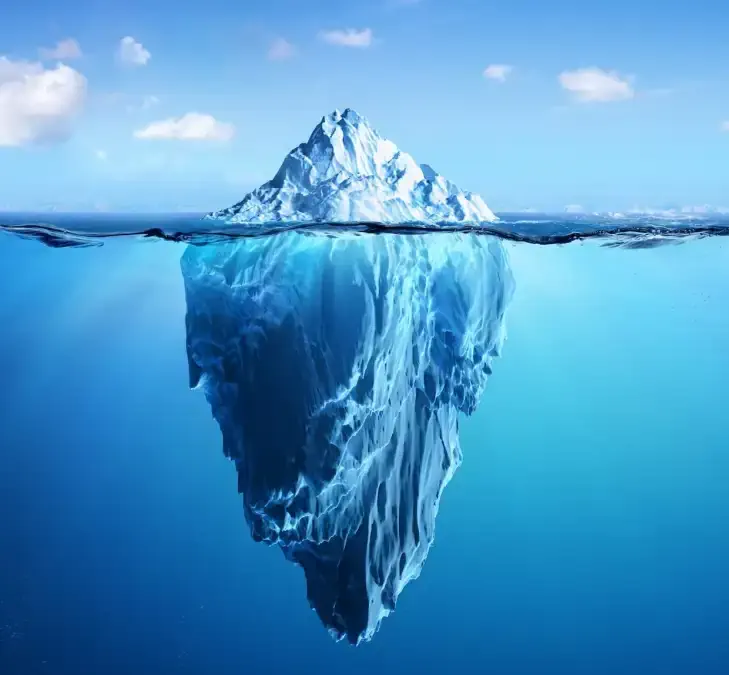
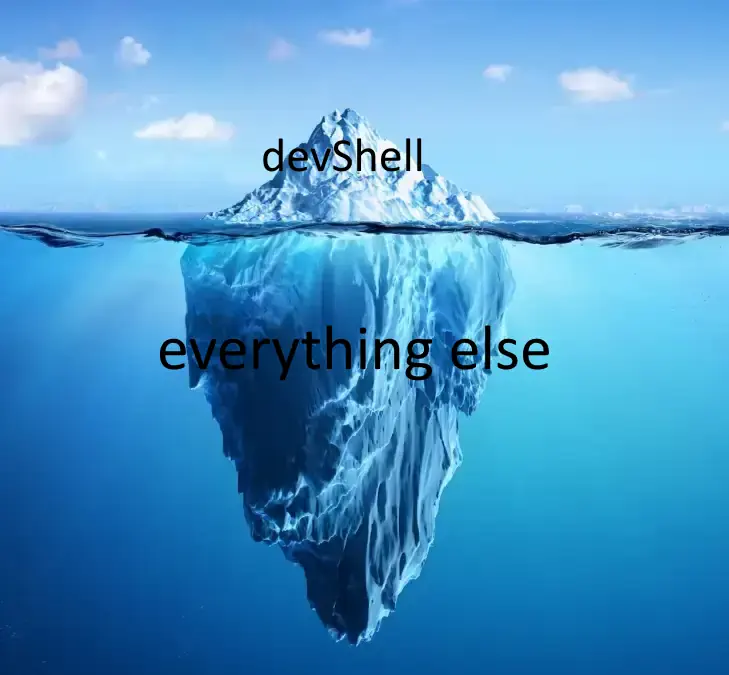
Iterate more on Nix presentation

Changed region(s): [[0.2112, 0.4667, 0.7545, 0.56], [0.3621, 0.1867, 0.6036, 0.28]]

diff --git a/Nix/Nix.md b/Nix/Nix.md
@@ -73,6 +73,11 @@ _* 10% of it is at least_
 
 ## Nix is many things
 
+- ~~Build system~~
+- ~~Configuration tool~~
+- ~~Package manager~~
+- Developer environment manager
+
 ![bg right cover](https://github.com/Gipphe/presentations/blob/main/Nix/img/iceberg.webp?raw=true)
 
 ---
